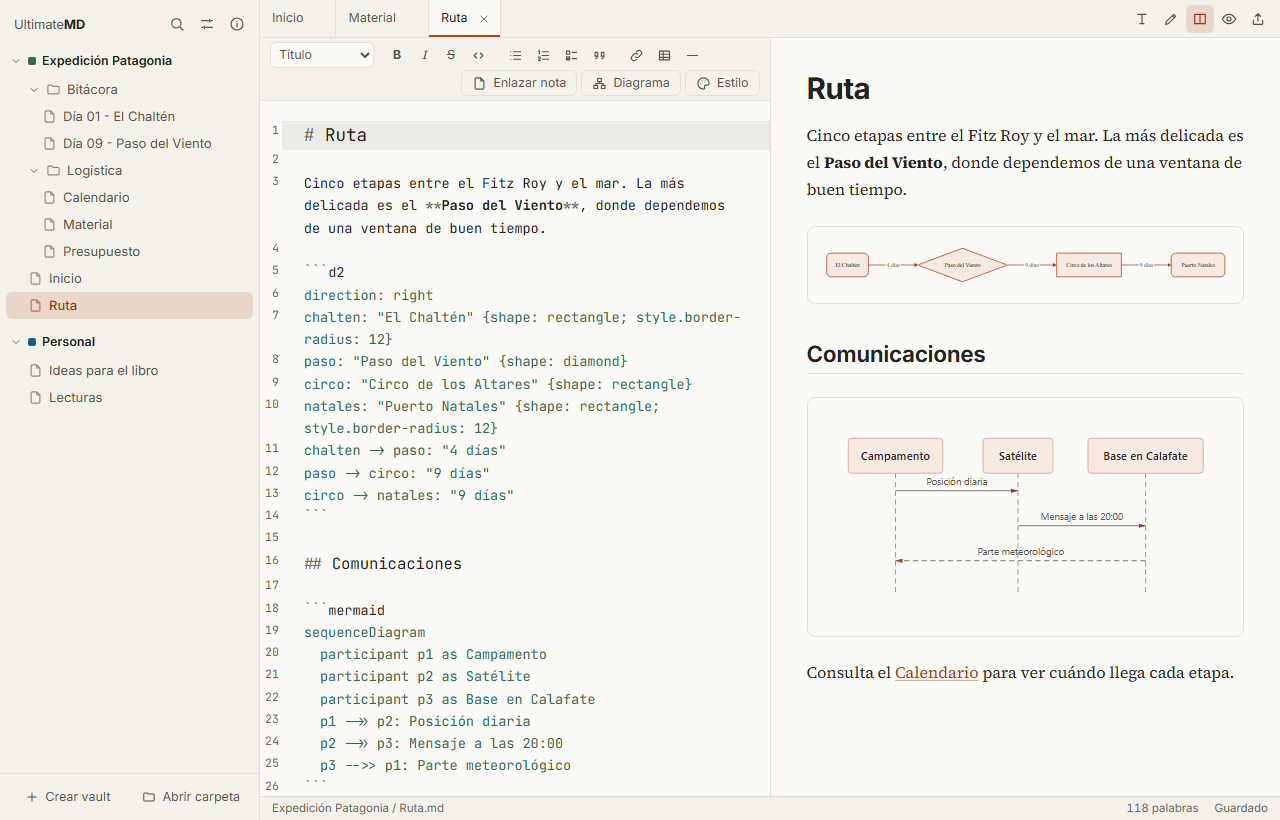
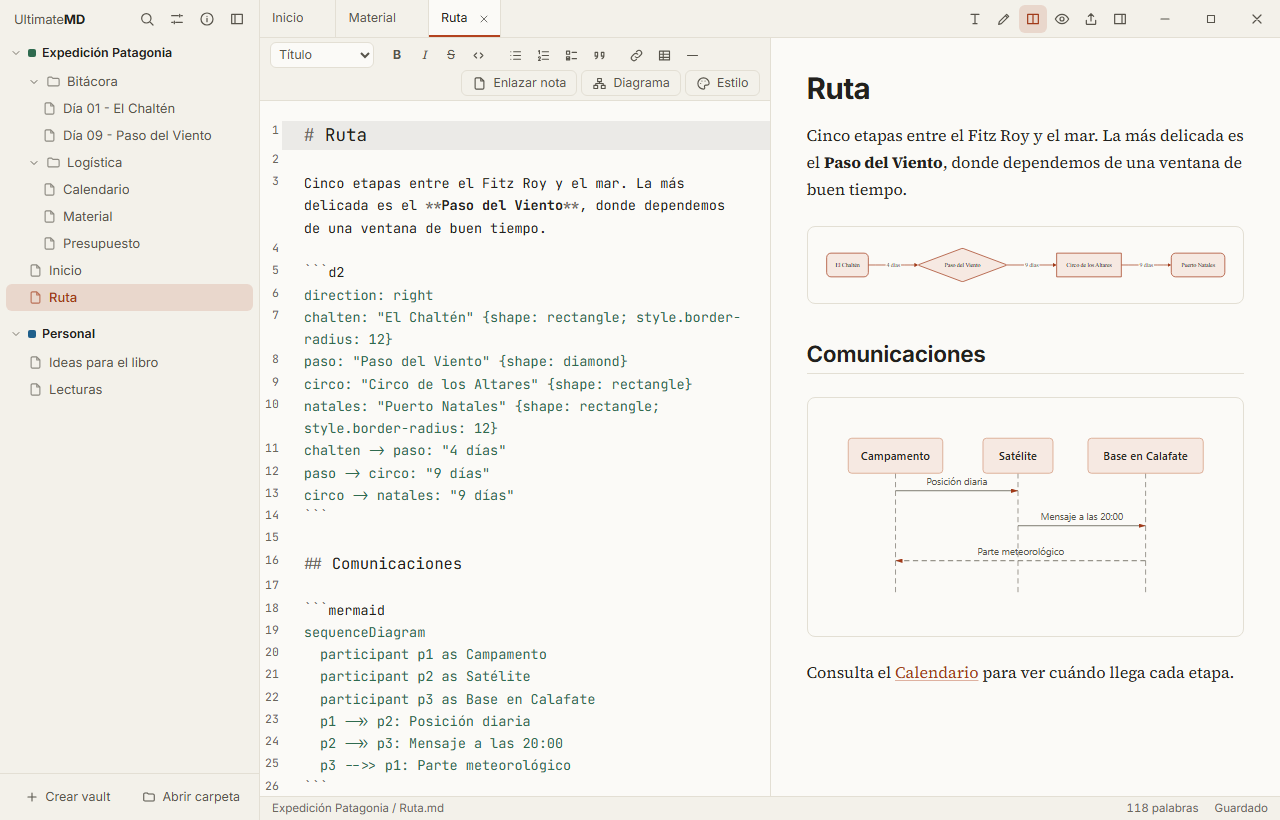
Draw the title bar inside the app
- No more system strip above the tabs. On macOS the system buttons sit
  over the app, which leaves them room; on Windows and Linux the app has
  its own minimise, maximise and close buttons, and saves before closing.
- The sidebar header, the tab bar and the note panel header drag the
  window, and a double click maximises it.
- Settings → Appearance can bring back the system's title bar, applied
  at once and before the window first shows.
- Window buttons have their own names, distinct from a dialog's Close.
- The note panel's tabs fit at its default width, now 280 px.

Closes #125

diff --git a/e2e/app.spec.ts b/e2e/app.spec.ts
@@ -438,6 +438,53 @@ test('dialogs grow into place when motion is allowed', async ({ page }) => {
   expect(timing.some((d) => d >= 120 && d <= 200)).toBe(true);
 });
 
+const windowCalls = (page: Page) => page.evaluate(() => (window as any).__windowCalls.map((c: any) => c.name));
+
+/** Pretends to run on Windows or macOS, which the app reads before it starts. */
+async function onPlatform(page: Page, platform: 'Win32' | 'MacIntel') {
+  await page.addInitScript((p) => Object.defineProperty(navigator, 'platform', { get: () => p }), platform);
+  await page.reload();
+}
+
+test('on Windows and Linux the app draws the window buttons and saves before closing', async ({ page }) => {
+  await onPlatform(page, 'Win32');
+  const controls = page.getByRole('group', { name: 'Ventana' });
+  await expect(controls.getByRole('button')).toHaveCount(3);
+  await controls.getByTitle('Minimizar la ventana').click();
+  await controls.getByTitle('Maximizar la ventana').click();
+  await open(page, 'Otra');
+  await typeInEditor(page, ' sin guardar');
+  await controls.getByTitle('Cerrar la ventana').click();
+  await expect.poll(() => windowCalls(page)).toEqual(expect.arrayContaining(['minimize', 'toggle_maximize', 'close']));
+  expect(await disk(page, 'b', 'Otra.md')).toContain('sin guardar');
+  // The bars leave room for the buttons and can drag the window.
+  await expect(page.locator('main > .bar')).toHaveAttribute('data-tauri-drag-region');
+  await expect(page.locator('main > .bar')).toHaveCSS('padding-right', '138px');
+});
+
+test('the system title bar can come back from settings', async ({ page }) => {
+  await onPlatform(page, 'Win32');
+  await page.getByTitle('Ajustes y MCP').click();
+  const settings = page.getByRole('dialog', { name: 'Ajustes' });
+  await settings.getByRole('navigation').getByRole('button', { name: 'Apariencia' }).click();
+  await settings.getByLabel('Usar la barra de título del sistema').check();
+  await expect(page.getByRole('group', { name: 'Ventana' })).toHaveCount(0);
+  const calls = await page.evaluate(() => (window as any).__windowCalls);
+  expect(calls.at(-1)).toEqual({ name: 'set_decorations', value: true });
+  await page.reload();
+  await expect(page.getByRole('group', { name: 'Ventana' })).toHaveCount(0);
+});
+
+test('on macOS the system buttons sit over the app, which leaves them room', async ({ page }) => {
+  await onPlatform(page, 'MacIntel');
+  await expect(page.getByRole('group', { name: 'Ventana' })).toHaveCount(0);
+  const calls = await page.evaluate(() => (window as any).__windowCalls);
+  expect(calls).toContainEqual({ name: 'set_title_bar_style', value: 'overlay' });
+  await expect(page.locator('aside header')).toHaveCSS('padding-left', '90px');
+  await page.keyboard.press('Control+Shift+e');
+  await expect(page.locator('main > .bar')).toHaveCSS('padding-left', '76px');
+});
+
 test('settings change MCP access and give a valid Windows config', async ({ page }) => {
   await page.getByTitle('Ajustes y MCP').click();
   await page.getByRole('dialog', { name: 'Ajustes' }).getByRole('navigation').getByRole('button', { name: 'Vaults' }).click();

diff --git a/src/lib/components/NotePanel.svelte b/src/lib/components/NotePanel.svelte
@@ -1,6 +1,7 @@
 <script lang="ts">
   import Icon from './Icon.svelte';
   import NoteProperties from './NoteProperties.svelte';
+  import { IS_MAC, frame } from '../frame.svelte';
   import { api, type LinkInfo } from '../api';
   import { tr, type Key } from '../i18n.svelte';
   import { headingAt, outline, type Heading } from '../markdown';
@@ -71,7 +72,11 @@
 {/snippet}
 
 <aside class="panel" aria-label={tr('panel.title')}>
-  <div class="head">
+  {#if frame.own && !IS_MAC}
+    <!-- Room for the window buttons, which would not fit beside the tabs. -->
+    <div class="frame-gap" data-tauri-drag-region></div>
+  {/if}
+  <div class="head" data-tauri-drag-region>
     <div class="tabs" role="tablist">
       {#each TABS as t (t.id)}
         <button role="tab" aria-selected={store.layout.panelTab === t.id} class:on={store.layout.panelTab === t.id} onclick={() => store.openPanel(t.id)}>{tr(t.label)}</button>
@@ -115,8 +120,9 @@
 <style>
   .panel { display: flex; flex-direction: column; min-width: 0; min-height: 0; background: var(--panel); border-left: 1px solid var(--line); }
   .head { display: flex; align-items: center; gap: var(--space-1); height: 38px; flex: none; padding: 0 var(--space-1-5) 0 var(--space-2); border-bottom: 1px solid var(--line); }
-  .tabs { display: flex; flex: 1; gap: var(--space-0-5); min-width: 0; }
-  .tabs button { padding: var(--space-1) var(--space-2-5); border: 0; border-radius: var(--radius-sm); background: none; color: var(--text-2); font-size: var(--font-sm); transition: background var(--ease), color var(--ease); }
+  .frame-gap { height: 38px; flex: none; border-bottom: 1px solid var(--line); }
+  .tabs { display: flex; flex: 1; gap: var(--space-0-5); min-width: 0; overflow: hidden; }
+  .tabs button { min-width: 0; overflow: hidden; padding: var(--space-1) var(--space-2); white-space: nowrap; text-overflow: ellipsis; border: 0; border-radius: var(--radius-sm); background: none; color: var(--text-2); font-size: var(--font-sm); transition: background var(--ease), color var(--ease); }
   .tabs button:hover { background: var(--hover); color: var(--text); }
   .tabs button.on { background: var(--accent-soft); color: var(--accent-text); }
   .body { flex: 1; min-height: 0; padding: var(--space-2); overflow-y: auto; }

diff --git a/src/lib/frame.svelte.ts b/src/lib/frame.svelte.ts
@@ -1,0 +1,82 @@
+// The window frame. By default the app draws its own title bar: on macOS the
+// system buttons sit over the app, elsewhere the app has its own. Anyone can
+// go back to the system's title bar in Settings, without restarting.
+import { getCurrentWindow } from '@tauri-apps/api/window';
+
+const KEY = 'ultimatemd.nativeFrame';
+
+export const IS_MAC = /Mac/i.test(navigator.platform || navigator.userAgent);
+
+function loadNative() {
+  try {
+    return localStorage.getItem(KEY) === '1';
+  } catch {
+    return false;
+  }
+}
+
+/** The window, or null outside the app, as in the interface tests. */
+function current() {
+  try {
+    return getCurrentWindow();
+  } catch {
+    return null;
+  }
+}
+
+class Frame {
+  /** The system's title bar instead of the app's own. */
+  native = $state(loadNative());
+  maximized = $state(false);
+
+  get own() {
+    return !this.native;
+  }
+
+  /** Makes the window match the choice. Called before the window first shows. */
+  async apply() {
+    const win = current();
+    if (!win) return;
+    try {
+      if (IS_MAC) await win.setTitleBarStyle(this.native ? 'visible' : 'overlay');
+      else await win.setDecorations(this.native);
+    } catch {
+      // A system that refuses keeps the frame it has.
+    }
+  }
+
+  async setNative(native: boolean) {
+    this.native = native;
+    try {
+      localStorage.setItem(KEY, native ? '1' : '0');
+    } catch {
+      // Lasts for this session only.
+    }
+    await this.apply();
+  }
+
+  /** Follows maximising from any source: the button, a double click or the system. */
+  async watch() {
+    const win = current();
+    if (!win) return;
+    const update = async () => {
+      this.maximized = await win.isMaximized().catch(() => false);
+    };
+    await update();
+    await win.onResized(update).catch(() => undefined);
+  }
+
+  minimize() {
+    void current()?.minimize().catch(() => undefined);
+  }
+
+  toggleMaximize() {
+    void current()?.toggleMaximize().catch(() => undefined);
+  }
+
+  close() {
+    void current()?.close().catch(() => undefined);
+  }
+}
+
+export const frame = new Frame();

diff --git a/src/App.svelte b/src/App.svelte
@@ -5,6 +5,8 @@
   import About from './lib/components/About.svelte';
   import Export from './lib/components/Export.svelte';
   import Modal from './lib/components/Modal.svelte';
+  import WindowControls from './lib/components/WindowControls.svelte';
+  import { IS_MAC, frame } from './lib/frame.svelte';
   import NotePanel from './lib/components/NotePanel.svelte';
   import Palette from './lib/components/Palette.svelte';
   import Preview from './lib/components/Preview.svelte';
@@ -45,8 +47,9 @@
       // Keeps the default width.
     }
     store.init().catch((e) => store.notify(e));
-    // The window starts hidden so it first appears with the right theme and language.
-    void applyInstallerLanguage().finally(() => {
+    void frame.watch();
+    // The window starts hidden so it first appears with the right theme, language and frame.
+    void Promise.all([applyInstallerLanguage(), frame.apply()]).finally(() => {
       try {
         void getCurrentWindow().show();
       } catch {
@@ -131,7 +134,8 @@
 
 <svelte:window onkeydowncapture={onKey} onblur={() => store.saveAll()} onresize={() => store.setWindowWidth(innerWidth)} />
 
-<div class="app" style:grid-template-columns={columns}>
+<div class="app" style:grid-template-columns={columns} style:--frame-left={frame.own && IS_MAC ? '76px' : '0px'} style:--frame-right={frame.own && !IS_MAC ? '138px' : '0px'}>
+  {#if frame.own && !IS_MAC}<WindowControls />{/if}
   {#if store.showLeft}
     <Sidebar />
     <button class="grip" aria-label={tr('app.resize')} style:left="{sidebarWidth - 3}px" onpointerdown={resize}></button>

diff --git a/src/lib/components/Sidebar.svelte b/src/lib/components/Sidebar.svelte
@@ -87,8 +87,8 @@
 <svelte:window onclick={() => (menu = null)} />
 
 <aside>
-  <header>
-    <span class="brand">Ultimate<b>MD</b></span>
+  <header data-tauri-drag-region>
+    <span class="brand" data-tauri-drag-region>Ultimate<b>MD</b></span>
     <button class="icon" title={tr('sidebar.searchTitle')} class:on={store.searching} onclick={() => (store.searching = !store.searching)}><Icon name="search" /></button>
     <button class="icon" title={tr('sidebar.settingsTitle')} onclick={() => (store.settings = true)}><Icon name="settings" /></button>
     <button class="icon" title={tr('about.title')} onclick={() => (store.about = true)}><Icon name="info" /></button>
@@ -146,7 +146,7 @@
 
 <style>
   aside { display: flex; flex-direction: column; height: 100%; min-height: 0; background: var(--panel); border-right: 1px solid var(--line); }
-  header { display: flex; align-items: center; gap: var(--space-0-5); padding: var(--space-2-5) var(--space-2) var(--space-2) var(--space-3-5); }
+  header { display: flex; align-items: center; gap: var(--space-0-5); height: 38px; padding: 0 var(--space-2) 0 calc(var(--space-3-5) + var(--frame-left, 0px)); }
   .brand { flex: 1; font-size: var(--font-md); letter-spacing: -.01em; color: var(--text-2); }
   .brand b { color: var(--text); font-weight: 700; }
   .vaults { flex: 1; min-height: 0; overflow-y: auto; padding: 0 var(--space-1-5) var(--space-2); }

diff --git a/src/lib/components/Tabs.svelte b/src/lib/components/Tabs.svelte
@@ -12,13 +12,15 @@
     { mode: 'preview', icon: 'eye', title: 'tabs.preview' },
   ];
   const active = $derived(store.active);
+  // The bar touching a window corner leaves room for the window's buttons there.
+  const panelShown = $derived(store.showRight && active?.kind === 'md');
 </script>
 
-<div class="bar">
+<div class="bar" data-tauri-drag-region class:corner-left={!store.showLeft} class:corner-right={!panelShown}>
   {#if !store.showLeft}
     <button class="icon show-left" title={tr('sidebar.show')} onclick={() => store.toggleBar('left', true)}><Icon name="panelLeft" /></button>
   {/if}
-  <div class="tabs" role="tablist">
+  <div class="tabs" role="tablist" data-tauri-drag-region>
     {#each store.tabs as tab (tab.key)}
       <div class="tab" in:enter class:active={tab.key === store.activeKey} role="tab" tabindex="0" aria-selected={tab.key === store.activeKey}
         onclick={() => { store.activeKey = tab.key; store.persist(); }}
@@ -58,5 +60,7 @@
   .tab:hover .x, .tab.active .x { opacity: .7; }
   .x:hover { background: var(--hover); opacity: 1; }
   .show-left { align-self: center; flex: none; margin: 0 var(--space-1); }
+  .corner-left { padding-left: var(--frame-left, 0px); }
+  .corner-right { padding-right: var(--frame-right, 0px); }
   .views { display: flex; align-items: center; gap: 1px; padding: 0 var(--space-2); }
 </style>

diff --git a/src/lib/components/WindowControls.svelte b/src/lib/components/WindowControls.svelte
@@ -1,0 +1,25 @@
+<script lang="ts">
+  import Icon from './Icon.svelte';
+  import { frame } from '../frame.svelte';
+  import { tr } from '../i18n.svelte';
+  import { store } from '../store.svelte';
+
+  async function close() {
+    // Saved first, as when the window loses the focus.
+    await store.saveAll();
+    frame.close();
+  }
+</script>
+
+<div class="controls" role="group" aria-label={tr('frame.controls')}>
+  <button title={tr('frame.minimize')} onclick={() => frame.minimize()}><Icon name="minimize" /></button>
+  <button title={tr(frame.maximized ? 'frame.restore' : 'frame.maximize')} onclick={() => frame.toggleMaximize()}><Icon name={frame.maximized ? 'restore' : 'maximize'} size={14} /></button>
+  <button class="close" title={tr('frame.close')} onclick={close}><Icon name="close" /></button>
+</div>
+
+<style>
+  .controls { position: absolute; top: 0; right: 0; z-index: var(--z-raised); display: flex; height: 38px; }
+  button { display: flex; align-items: center; justify-content: center; width: 46px; height: 100%; padding: 0; border: 0; background: none; color: var(--text-2); transition: background var(--ease), color var(--ease); }
+  button:hover { background: var(--hover); color: var(--text); }
+  .close:hover { background: #c42b1c; color: #fff; }
+</style>

diff --git a/src/lib/components/Settings.svelte b/src/lib/components/Settings.svelte
@@ -1,4 +1,5 @@
 <script lang="ts">
+  import { frame } from '../frame.svelte';
   import { dim, pop } from '../motion';
   import { onMount } from 'svelte';
   import Icon from './Icon.svelte';
@@ -175,6 +176,11 @@
         </label>
       </div>
     {/if}
+    <label class="follow">
+      <input type="checkbox" checked={frame.native} onchange={(e) => frame.setNative(e.currentTarget.checked)} />
+      {tr('settings.nativeFrame')}
+    </label>
+    <p class="hint">{tr('settings.nativeFrameHint')}</p>
   </section>
 
   {:else if section === 'vaults'}
@@ -249,6 +255,7 @@
   .sample { font-size: var(--font-xl); line-height: 1.2; }
   .bar { width: 18px; height: 6px; border-radius: var(--radius-2xs); }
   .tname { grid-column: 1 / -1; font-size: var(--font-sm); }
+  .hint { margin: var(--space-1) 0 0 var(--space-5); color: var(--text-3); font-size: var(--font-xs); line-height: 1.4; }
   .follow { display: flex; align-items: center; gap: var(--space-1-5); margin-top: var(--space-3); color: var(--text-2); font-size: var(--font-sm); }
   .modes { display: flex; flex-wrap: wrap; gap: var(--space-4); margin-top: var(--space-2); color: var(--text-2); font-size: var(--font-sm); }
   .modes label { display: flex; align-items: center; gap: var(--space-1-5); }

diff --git a/e2e/mock.js b/e2e/mock.js
@@ -227,7 +227,15 @@
 
   window.__word = { headings: [null, null, null, null, null, null], body: null, headerFill: null, tableTextSize: null, codeTextSize: null, imageMaxWidth: null, plainCode: false };
 
+  // The window, so that its buttons can be tested. Calls are recorded in order.
+  window.__windowCalls = [];
+  for (const name of ['show', 'minimize', 'toggle_maximize', 'close', 'set_decorations', 'set_title_bar_style']) {
+    commands[`plugin:window|${name}`] = (args) => void window.__windowCalls.push({ name, value: args?.value });
+  }
+  commands['plugin:window|is_maximized'] = () => false;
+
   window.__TAURI_INTERNALS__ = {
+    metadata: { currentWindow: { label: 'main' }, currentWebview: { windowLabel: 'main', label: 'main' } },
     invoke: async (cmd, args) => {
       if (!commands[cmd]) throw `mock: no command ${cmd}`;
       return commands[cmd](args);

diff --git a/src/lib/locales/eu.ts b/src/lib/locales/eu.ts
@@ -168,6 +168,13 @@ export const eu: Record<Key, string> = {
   'settings.tutorial': 'Ikusi tutoriala',
   'settings.appearance': 'Itxura',
   'settings.followSystem': 'Jarraitu sistemari',
+  'frame.controls': 'Leihoa',
+  'frame.minimize': 'Minimizatu leihoa',
+  'frame.maximize': 'Maximizatu leihoa',
+  'frame.restore': 'Leheneratu leihoa',
+  'frame.close': 'Itxi leihoa',
+  'settings.nativeFrame': 'Erabili sistemaren izenburu-barra',
+  'settings.nativeFrameHint': 'Zure sistemaren leiho-markoa itzultzen du, aplikazioarena zure mahaigainarekin ondo moldatzen ez bada.',
   'settings.lightMode': 'Modu argia',
   'settings.darkMode': 'Modu iluna',
   'settings.mcpAccessOf': '{name}: MCP sarbidea',

diff --git a/src/lib/locales/es.ts b/src/lib/locales/es.ts
@@ -167,6 +167,13 @@ export const es = {
   'settings.tutorial': 'Ver el tutorial',
   'settings.appearance': 'Apariencia',
   'settings.followSystem': 'Seguir al sistema',
+  'frame.controls': 'Ventana',
+  'frame.minimize': 'Minimizar la ventana',
+  'frame.maximize': 'Maximizar la ventana',
+  'frame.restore': 'Restaurar la ventana',
+  'frame.close': 'Cerrar la ventana',
+  'settings.nativeFrame': 'Usar la barra de título del sistema',
+  'settings.nativeFrameHint': 'Recupera el marco de ventana de tu sistema, por si el de la app no se lleva bien con tu escritorio.',
   'settings.lightMode': 'Modo claro',
   'settings.darkMode': 'Modo oscuro',
   'settings.mcpAccessOf': 'Acceso MCP de {name}',

diff --git a/src/lib/locales/en.ts b/src/lib/locales/en.ts
@@ -168,6 +168,13 @@ export const en: Record<Key, string> = {
   'settings.tutorial': 'Show the tutorial',
   'settings.appearance': 'Appearance',
   'settings.followSystem': 'Follow the system',
+  'frame.controls': 'Window',
+  'frame.minimize': 'Minimise the window',
+  'frame.maximize': 'Maximise the window',
+  'frame.restore': 'Restore the window',
+  'frame.close': 'Close the window',
+  'settings.nativeFrame': 'Use the system title bar',
+  'settings.nativeFrameHint': 'Brings back your system’s window frame, in case the app’s own does not suit your desktop.',
   'settings.lightMode': 'Light mode',
   'settings.darkMode': 'Dark mode',
   'settings.mcpAccessOf': 'MCP access for {name}',
